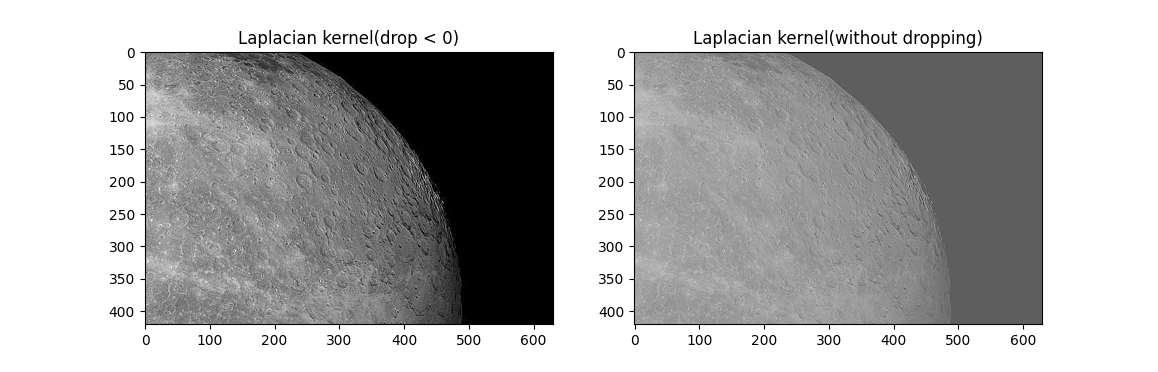
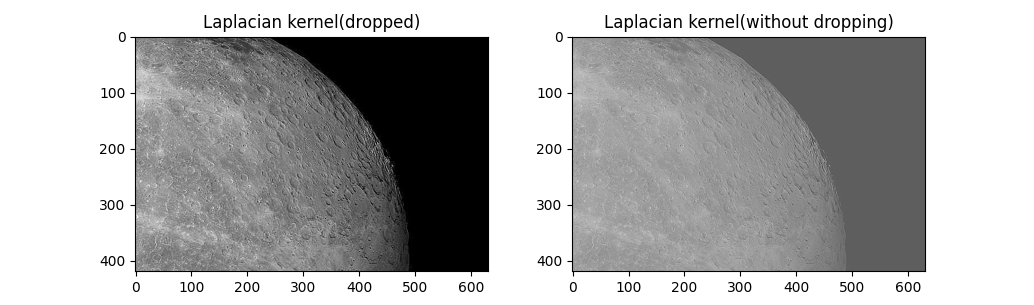
update

Changed region(s): [[0.0928, 0.0295, 0.8975, 0.9738], [0.8975, 0.1475, 0.9284, 0.8557], [0.7737, 0.4426, 0.8046, 0.5607]]

diff --git a/homework/homework1/code/p2/p2b.py b/homework/homework1/code/p2/p2b.py
@@ -13,7 +13,7 @@ Laplacian_image = convolution(origin_lena, Laplacian_kernel_sharp)
 fig, ax = plt.subplots(1, 2)
 
 ax[0].imshow(np.minimum(np.maximum(Laplacian_image, 0),255), cmap='gray')
-ax[0].set_title('Laplacian kernel(drop < 0)')
+ax[0].set_title('Laplacian kernel(dropped)')
 
 ax[1].imshow(Laplacian_image, cmap='gray')
 ax[1].set_title('Laplacian kernel(without dropping)')
